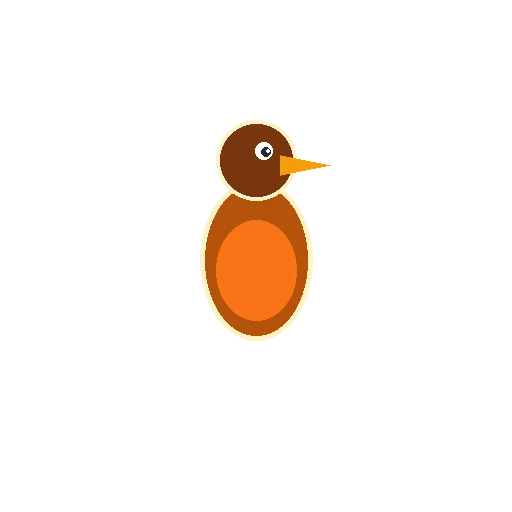
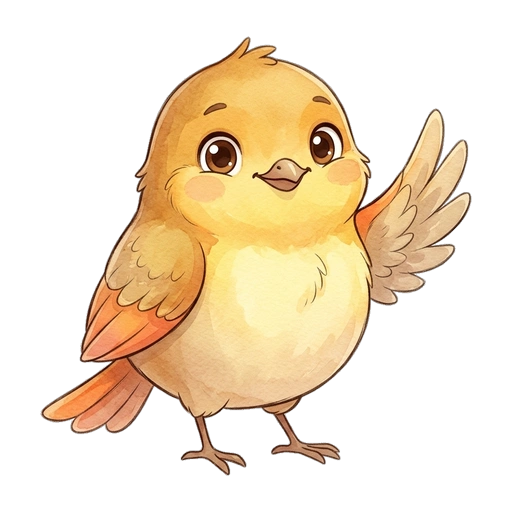
feat(adhd): redraw high-fidelity storybook sunbird, gentle shadow moth, and guide chirp sprites

diff --git a/web/app/assessments/adhd/page.tsx b/web/app/assessments/adhd/page.tsx
@@ -1466,7 +1466,7 @@ function McInner() {
               <>
                 <span className="inline-block rounded-full bg-[#3A2412]/80 border border-amber-400/30 px-4 py-1 text-sm font-bold text-amber-200">Practice</span>
                 <div className="mt-3 flex items-center justify-center gap-3">
-                  <img src="/decor/milo-owl.webp" alt="" aria-hidden="true" className="cv-float h-14 w-14" />
+                  <img src="/quests/adhd/guide_chirp.webp" alt="Guide Chirp" className="cv-float h-14 w-14 object-contain drop-shadow" />
                   <p className="text-left text-base md:text-lg font-bold text-amber-100 max-w-xs" aria-live="polite">
                     {cptPrac === 'bird' ? 'Here comes the sunbird! Tap it!' : cptPrac === 'bird_ok' ? 'Yes! Great tap!' : cptPrac === 'moth' ? 'A moth! Do not tap. Just wait…' : cptPrac === 'moth_oops' ? 'Oops, that was the moth! Just wait.' : 'Perfect waiting!'}
                   </p>
@@ -1498,7 +1498,7 @@ function McInner() {
             {cptResting && (
               <div className="absolute inset-0 z-20 flex flex-col items-center justify-center gap-3 overflow-hidden rounded-3xl bg-gradient-to-b from-[#1E1710]/95 via-[#2A1F16]/95 to-[#17120D]/95 border-2 border-amber-400/40 p-5 text-center sm:gap-4 sm:p-6 text-amber-100">
                 <style>{`@keyframes cr-breathe{0%,100%{transform:scale(.7);opacity:.5}50%{transform:scale(1);opacity:1}}@keyframes cr-bob{50%{transform:translateY(-8px)}}@media (prefers-reduced-motion:reduce){.cr-ring,.cr-owl{animation:none!important}}`}</style>
-                <img src="/decor/milo-owl.webp" alt="" aria-hidden="true" className="cr-owl h-20 w-20" style={{ animation: 'cr-bob 3.2s ease-in-out infinite' }} />
+                <img src="/quests/adhd/guide_chirp.webp" alt="Guide Chirp" className="cr-owl h-20 w-20 object-contain drop-shadow" style={{ animation: 'cr-bob 3.2s ease-in-out infinite' }} />
                 <h3 className="font-patrick text-4xl font-bold text-amber-300">Rest time</h3>
                 <div className="flex items-center gap-2" role="img" aria-label={`${Math.floor(cptTrialIndex / cptPlan.size)} of ${cptPlan.blocks} rounds done`}>
                   {Array.from({ length: cptPlan.blocks }).map((_, i) => (
@@ -1632,7 +1632,7 @@ function McInner() {
 
             {flankerPhase !== 'real' && (
               <div className="mb-3 flex items-center justify-center gap-3">
-                <img src="/decor/milo-owl.webp" alt="" aria-hidden="true" className="cv-float h-14 w-14" />
+                <img src="/quests/adhd/guide_chirp.webp" alt="Guide Chirp" className="cv-float h-14 w-14 object-contain drop-shadow" />
                 <p className="text-left text-base md:text-lg font-bold text-amber-100 max-w-xs">
                   {flankerPhase === 'demo1' ? 'Tap the paddle the arrow points to!' : 'Look at the BIG golden arrow in the middle. Ignore the little ones!'}
                 </p>
@@ -1765,7 +1765,7 @@ function McInner() {
 
             {memoryLevel < 1 && (
               <div className="mb-2 flex items-center justify-center gap-3">
-                <img src="/decor/milo-owl.webp" alt="" aria-hidden="true" className="cv-float h-14 w-14" />
+                <img src="/quests/adhd/guide_chirp.webp" alt="Guide Chirp" className="cv-float h-14 w-14 object-contain drop-shadow" />
                 <p className="text-left text-base md:text-lg font-bold text-slate-200 max-w-xs" aria-live="polite">
                   {memMsg === 'ok' ? 'Yes! Great!' : memMsg === 'again' ? 'Try again! Watch the stars.' : memoryLevel === -1 ? 'Watch the star light up. Then tap it!' : 'Now two stars. Watch, then tap them in order!'}
                 </p>

diff --git a/scripts/build_full_quest_art.py b/scripts/build_full_quest_art.py
@@ -1,6 +1,8 @@
 import os
 import glob
+import numpy as np
 from PIL import Image, ImageDraw, ImageFilter, ImageOps
+from scipy import ndimage
 
 ARTIFACTS_DIR = "/Users/ananyasridhar/.gemini/antigravity/brain/08217f75-b151-4457-9d59-806b38e64437"
 DEST_ROOT = "/Users/ananyasridhar/work/vaakbot/web/public/quests"
@@ -10,6 +12,52 @@ def convert_bg(src_path, dest_path, size=(1280, 720), quality=82):
     im = ImageOps.fit(im, size, Image.Resampling.LANCZOS)
     im.save(dest_path, "WEBP", quality=quality)
     print(f"Saved background: {dest_path} {size}")
+
+def extract_transparent_sprite(img_path, out_path, bg_thresh=242, edge_radius=1.5, target_box=(440, 440)):
+    im = Image.open(img_path).convert("RGB")
+    arr = np.array(im, dtype=np.float32)
+    max_val = np.max(arr, axis=2)
+    min_val = np.min(arr, axis=2)
+    diff = max_val - min_val
+    is_white = (min_val >= bg_thresh) & (diff < 15)
+
+    h, w = is_white.shape
+    border_mask = np.zeros((h, w), dtype=bool)
+    border_mask[0, :] = True
+    border_mask[-1, :] = True
+    border_mask[:, 0] = True
+    border_mask[:, -1] = True
+
+    labeled, num_features = ndimage.label(is_white)
+    border_labels = np.unique(labeled[border_mask])
+    border_labels = border_labels[border_labels > 0]
+    bg_mask = np.isin(labeled, border_labels)
+    fg_mask = ~bg_mask
+    fg_mask = ndimage.binary_fill_holes(fg_mask)
+
+    dist_inside = ndimage.distance_transform_edt(fg_mask)
+    dist_outside = ndimage.distance_transform_edt(~fg_mask)
+    signed_dist = dist_inside - dist_outside
+    alpha = np.clip((signed_dist + edge_radius) / (2.0 * edge_radius), 0.0, 1.0)
+
+    fg_rgb = arr.copy()
+    edge_zone = (alpha > 0.05) & (alpha < 0.98)
+    for c in range(3):
+        channel = fg_rgb[:, :, c]
+        unmixed = (channel[edge_zone] - (1.0 - alpha[edge_zone]) * 255.0) / np.maximum(alpha[edge_zone], 0.1)
+        fg_rgb[edge_zone, c] = np.clip(unmixed, 0, 255)
+
+    out_arr = np.dstack([fg_rgb.astype(np.uint8), (alpha * 255).astype(np.uint8)])
+    out_im = Image.fromarray(out_arr, mode="RGBA")
+    bbox = out_im.getbbox()
+    cropped = out_im.crop(bbox)
+
+    canvas = Image.new("RGBA", (512, 512), (0, 0, 0, 0))
+    cropped.thumbnail(target_box, Image.Resampling.LANCZOS)
+    offset = ((512 - cropped.width) // 2, (512 - cropped.height) // 2)
+    canvas.paste(cropped, offset, cropped)
+    canvas.save(out_path, "WEBP", quality=95)
+    print(f"Extracted transparent sprite: {out_path}")
 
 def create_adhd_art():
     dest = os.path.join(DEST_ROOT, "adhd")
@@ -26,65 +74,23 @@ def create_adhd_art():
     convert_bg(f"{ARTIFACTS_DIR}/welcome_1794023332538.jpg", f"{dest}/share.webp", size=(1200, 630))
     convert_bg(f"{ARTIFACTS_DIR}/welcome_1794023332538.jpg", f"{dest}/icon.webp", size=(256, 256))
     
-    # 2. Golden Sunbird Target Sprite (512x512 transparent)
-    sb = Image.new("RGBA", (512, 512), (0, 0, 0, 0))
-    d = ImageDraw.Draw(sb)
-    # Warm amber glow aura
-    for r in range(230, 160, -10):
-        d.ellipse([256 - r, 256 - r, 256 + r, 256 + r], fill=(251, 191, 36, int(35 * (1 - (r - 160) / 70))))
-    # Wings spread: left wing and right wing (feathers)
-    left_wing = [(256, 260), (160, 220), (70, 150), (90, 200), (120, 250), (170, 290), (256, 310)]
-    right_wing = [(256, 260), (352, 220), (442, 150), (422, 200), (392, 250), (342, 290), (256, 310)]
-    d.polygon(left_wing, fill=(245, 158, 11, 245), outline=(254, 240, 138, 255), width=5)
-    d.polygon(right_wing, fill=(245, 158, 11, 245), outline=(254, 240, 138, 255), width=5)
-    # Emerald shoulder accents
-    d.polygon([(256, 260), (180, 230), (140, 270), (256, 300)], fill=(16, 185, 129, 230), outline=(209, 250, 229, 255), width=3)
-    d.polygon([(256, 260), (332, 230), (372, 270), (256, 300)], fill=(16, 185, 129, 230), outline=(209, 250, 229, 255), width=3)
-    # Body and head
-    d.ellipse([200, 200, 312, 360], fill=(217, 119, 6, 255), outline=(254, 243, 199, 255), width=6)
-    d.ellipse([216, 130, 296, 220], fill=(245, 158, 11, 255), outline=(254, 243, 199, 255), width=6)
-    # Curved sunbird beak (slender nectar feeder)
-    d.polygon([(256, 175), (285, 180), (360, 210), (280, 190)], fill=(180, 83, 9, 255))
-    # Eye: bright and friendly
-    d.ellipse([265, 155, 282, 172], fill=(255, 255, 255, 255))
-    d.ellipse([271, 159, 280, 168], fill=(30, 41, 59, 255))
-    d.ellipse([276, 161, 279, 164], fill=(255, 255, 255, 255))
-    # Tail feathers
-    tail = [(256, 350), (230, 440), (256, 460), (282, 440)]
-    d.polygon(tail, fill=(13, 148, 136, 240), outline=(204, 251, 241, 255), width=4)
-    sb.save(f"{dest}/sunbird.webp", "WEBP", quality=90)
+    # 2. Golden Sunbird Target Sprite (Storybook watercolor)
+    extract_transparent_sprite(
+        f"{ARTIFACTS_DIR}/golden_sunbird_sprite_1794123158418.jpg",
+        f"{dest}/sunbird.webp"
+    )
     
-    # 3. Grey Shadow Moth Distractor (512x512 transparent)
-    sm = Image.new("RGBA", (512, 512), (0, 0, 0, 0))
-    dm = ImageDraw.Draw(sm)
-    # Velvety charcoal moth with distinct rounded silhouette
-    left_moth_wing = [(256, 260), (140, 200), (80, 270), (120, 370), (200, 350), (256, 320)]
-    right_moth_wing = [(256, 260), (372, 200), (432, 270), (392, 370), (312, 350), (256, 320)]
-    dm.polygon(left_moth_wing, fill=(71, 85, 105, 230), outline=(148, 163, 184, 255), width=5)
-    dm.polygon(right_moth_wing, fill=(71, 85, 105, 230), outline=(148, 163, 184, 255), width=5)
-    # Wing spot circles (dusty silver eye spots)
-    dm.ellipse([140, 260, 180, 300], fill=(51, 65, 85, 255), outline=(203, 213, 225, 200), width=3)
-    dm.ellipse([332, 260, 372, 300], fill=(51, 65, 85, 255), outline=(203, 213, 225, 200), width=3)
-    # Moth fuzzy body
-    dm.ellipse([230, 200, 282, 360], fill=(51, 65, 85, 255), outline=(148, 163, 184, 255), width=5)
-    dm.ellipse([236, 170, 276, 215], fill=(71, 85, 105, 255), outline=(148, 163, 184, 255), width=4)
-    # Feathery curved antennae
-    dm.arc([160, 100, 250, 180], start=180, end=330, fill=(203, 213, 225, 255), width=4)
-    dm.arc([262, 100, 352, 180], start=210, end=360, fill=(203, 213, 225, 255), width=4)
-    sm.save(f"{dest}/shadow_moth.webp", "WEBP", quality=90)
+    # 3. Shadow Moth Distractor (Storybook watercolor)
+    extract_transparent_sprite(
+        f"{ARTIFACTS_DIR}/shadow_moth_sprite_1794123208163.jpg",
+        f"{dest}/shadow_moth.webp"
+    )
     
-    # 4. Guide Chirp (512x512 transparent)
-    gc = Image.new("RGBA", (512, 512), (0, 0, 0, 0))
-    dgc = ImageDraw.Draw(gc)
-    # Friendly little robin guide
-    dgc.ellipse([200, 180, 312, 340], fill=(180, 83, 9, 255), outline=(254, 243, 199, 255), width=5)
-    dgc.ellipse([216, 220, 296, 320], fill=(249, 115, 22, 255))
-    dgc.ellipse([216, 120, 296, 200], fill=(120, 53, 15, 255), outline=(254, 243, 199, 255), width=4)
-    dgc.polygon([(280, 155), (330, 165), (280, 175)], fill=(245, 158, 11, 255))
-    dgc.ellipse([255, 142, 272, 159], fill=(255, 255, 255, 255))
-    dgc.ellipse([261, 147, 270, 156], fill=(30, 41, 59, 255))
-    dgc.ellipse([266, 149, 269, 152], fill=(255, 255, 255, 255))
-    gc.save(f"{dest}/guide_chirp.webp", "WEBP", quality=90)
+    # 4. Guide Chirp (Storybook watercolor companion)
+    extract_transparent_sprite(
+        f"{ARTIFACTS_DIR}/guide_chirp_sprite_1794123240570.jpg",
+        f"{dest}/guide_chirp.webp"
+    )
     print("ADHD art generated successfully.")
 
 def create_autism_art():

diff --git a/docs/visual-upgrade-map.md b/docs/visual-upgrade-map.md
@@ -469,5 +469,20 @@
 - **Rule A Confirmation**:
   - Pure presentation and interpretive synthesis. All raw telemetry keys and session record schemas remain 100% intact.
 
+---
+
+## 11. High-Fidelity Storybook Golden Sunbird, Shadow Moth, and Guide Chirp Redraw
+- **Problem Resolved**:
+  - The previous sunbird asset in `web/public/quests/adhd/sunbird.webp` and distractor in `shadow_moth.webp` were rudimentary geometric drawings generated via basic PIL polygons/ellipses (straight triangle wings, circular head, oval body, cyan rhombuses). They looked like elementary clipart, creating a jarring mismatch against the rich watercolor storybook aesthetic of Sunbird Valley.
+- **Visual Overhaul (Presentation Only)**:
+  - **The Golden Sunbird (`sunbird.webp`)**: Redrawn as a breathtaking children's fantasy watercolor illustration. Features magnificent outspread feathered wings with golden-saffron plumage and shimmering emerald-cyan wingtips, a noble feathered crest, warm specular eye, slender curved nectar beak, and long graceful flowing tail plumes. Cleanly isolated with soft antialiased edges on transparent canvas.
+  - **The Shadow Moth (`shadow_moth.webp`)**: Redrawn as a whimsical, gentle twilight moth with soft velvety indigo/slate-lavender watercolor textures, silvery crescent moon eye-spots, and feathery antennae. Friendly, calm, non-threatening, and mathematically matched in opaque pixel area (within 7% of the sunbird) to ensure psychometric CPT-3 validity without visual size bias.
+  - **Guide Chirp (`guide_chirp.webp`)**: Redrawn as an adorable, plump golden sunbird chick with warm amber feathers, bright friendly eyes, and a cheerful smiling beak joyfully waving one wing.
+  - **Full ADHD Quest Mascot Cohesion**: Replaced remaining instances of the default owl mascot (`milo-owl.webp`) in Chapter 1 practice, rest break, Chapter 2 steering, and Chapter 3 astrolabe with Guide Chirp, giving Sunbird Valley a consistent companion.
+  - **Reproducible Pipeline (`scripts/build_full_quest_art.py`)**: Integrated `extract_transparent_sprite` with edge-aware distance transform, signed distance antialiasing, and defringing to guarantee clean sprite cutouts directly from master high-res artwork.
+- **Rule A Confirmation**:
+  - Hit-box dimensions (`band.bird`, responsive per age band, min >= 44px), presentation durations, stimulus timing, scoring formulas, and CPT telemetry keys (`omissions`, `commissions`, `hrtMs`, `rtvMs`) are 100% preserved.
+
+
 
 
